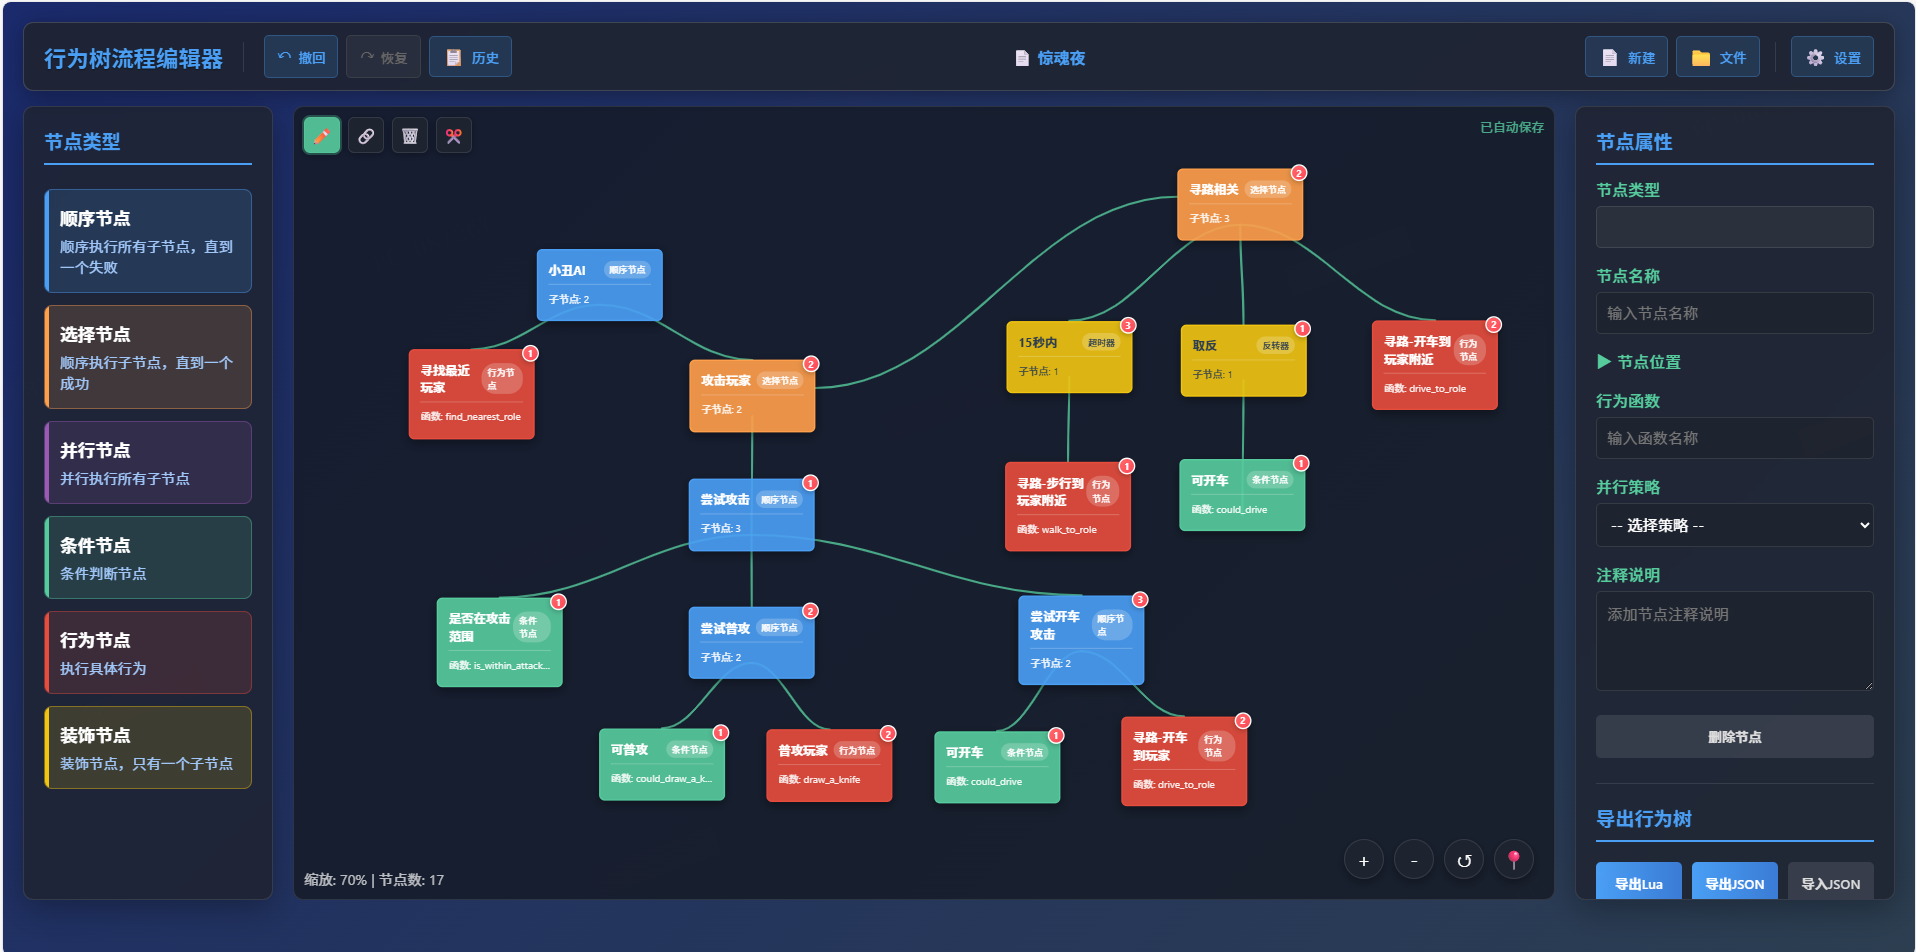
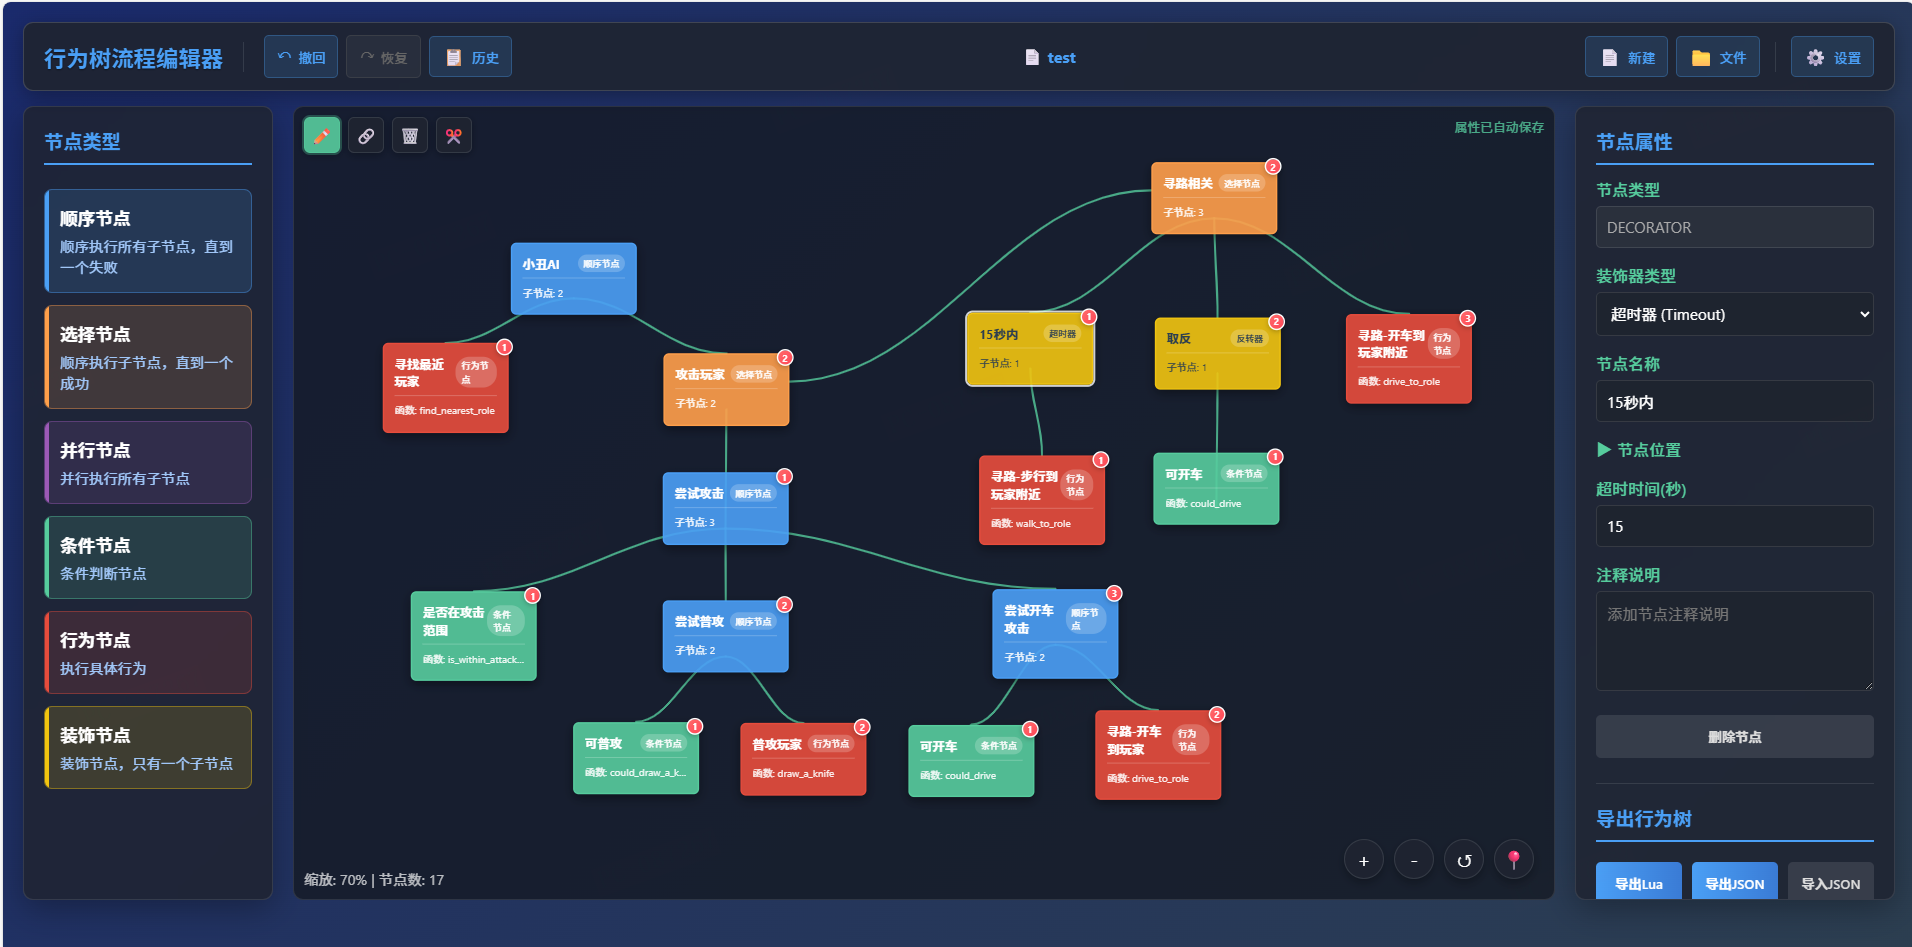
网页更新以及修复部分行为树的bug

diff --git a/behavior_web/script.js b/behavior_web/script.js
@@ -40,10 +40,10 @@ class BehaviorTreeEditor {
         this.setupEventListeners();
         this.setupKeyboardShortcuts();
         this.setupAutoSave();
-        
+
         // 加载上次使用的文件
         this.loadLastUsedFile();
-        
+
         this.updateStatus();
         this.autoSave();
         this.setupPositionToggle();
@@ -103,7 +103,9 @@ class BehaviorTreeEditor {
 
         // 监听装饰器类型选择变化
         document.getElementById('decorator-type').addEventListener('change', () => {
-            if (this.selectedNode && this.selectedNode.type === 'DECORATOR') {
+            if (this.selectedNode && decoratorNames.indexOf(this.selectedNode.type) !== 'DECORATOR') {
+                const decoratorType = document.getElementById('decorator-type').value;
+                this.selectedNode.decoratorType = decoratorType;
                 this.handleDecoratorTypeChange();
             }
         });
@@ -1723,10 +1725,14 @@ class BehaviorTreeEditor {
     }
 
     generateLuaCode(node) {
-        let code = `return {\n    type = BT.NodeType.${node.type},\n    name = "${node.name}"`;
+        let code = `return {\n    type = BT.NodeType.${node.decoratorType ?? node.type},\n    name = "${node.name}"`;
 
         if (node.func) code += `,\n    func = ${this.formatFunctionOutput(node.func)}`;
         if (node.policy) code += `,\n    policy = BT.ParallelPolicy.${node.policy}`;
+        if (node.timeoutDuration) code += `,\n    duration = ${node.timeoutDuration}`;
+        if (node.cooldownDuration) code += `,\n    duration = ${node.cooldownDuration}`;
+        if (node.repeaterCount) code += `,\n    max_retries = ${node.repeaterCount}`;
+        if (node.retryCount) code += `,\n    count = ${node.retryCount}`;
 
         // 获取子节点（已经按正确顺序排列）
         const children = this.connections
@@ -1824,11 +1830,11 @@ class BehaviorTreeEditor {
             nextNodeId: this.nextNodeId,
             lastModified: new Date().toISOString()
         };
-        
+
         // 保存文件数据
         const storageKey = this.currentFileName ? `behaviorTree_${this.currentFileName}` : 'behaviorTree';
         localStorage.setItem(storageKey, JSON.stringify(data));
-        
+
         // 记录当前使用的文件
         this.recordLastUsedFile();
     }
@@ -2750,7 +2756,7 @@ class BehaviorTreeEditor {
             }
             this.renameTriggeredByKey = false;
         });
-        
+
         input.addEventListener('keydown', (e) => {
             if (e.key === 'Enter') {
                 e.preventDefault();
@@ -2985,7 +2991,7 @@ class BehaviorTreeEditor {
     loadLastUsedFile() {
         // 从localStorage获取上次使用的文件名
         const lastUsedFile = localStorage.getItem('lastUsedFile');
-        
+
         if (lastUsedFile) {
             // 检查该文件是否还存在
             const storageKey = lastUsedFile === '默认文件' ? 'behaviorTree' : `behaviorTree_${lastUsedFile}`;
@@ -3000,7 +3006,7 @@ class BehaviorTreeEditor {
                 localStorage.removeItem('lastUsedFile');
             }
         }
-        
+
         // 没有上次使用的文件或文件不存在，加载默认文件
         this.currentFileName = null;
         this.loadFromStorage();
